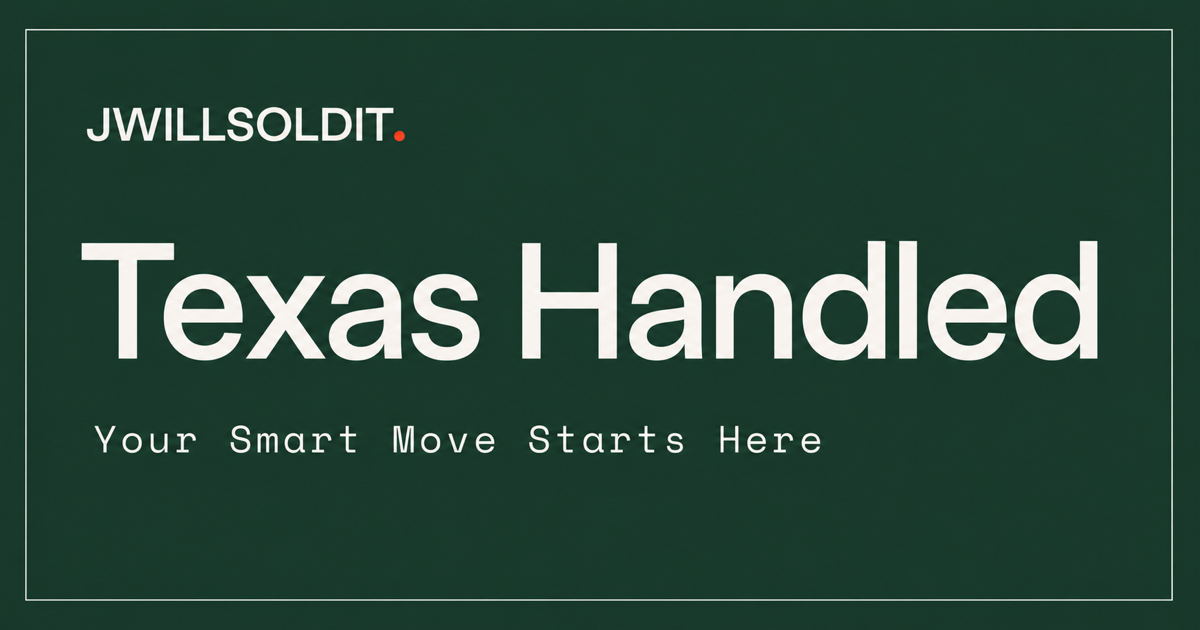
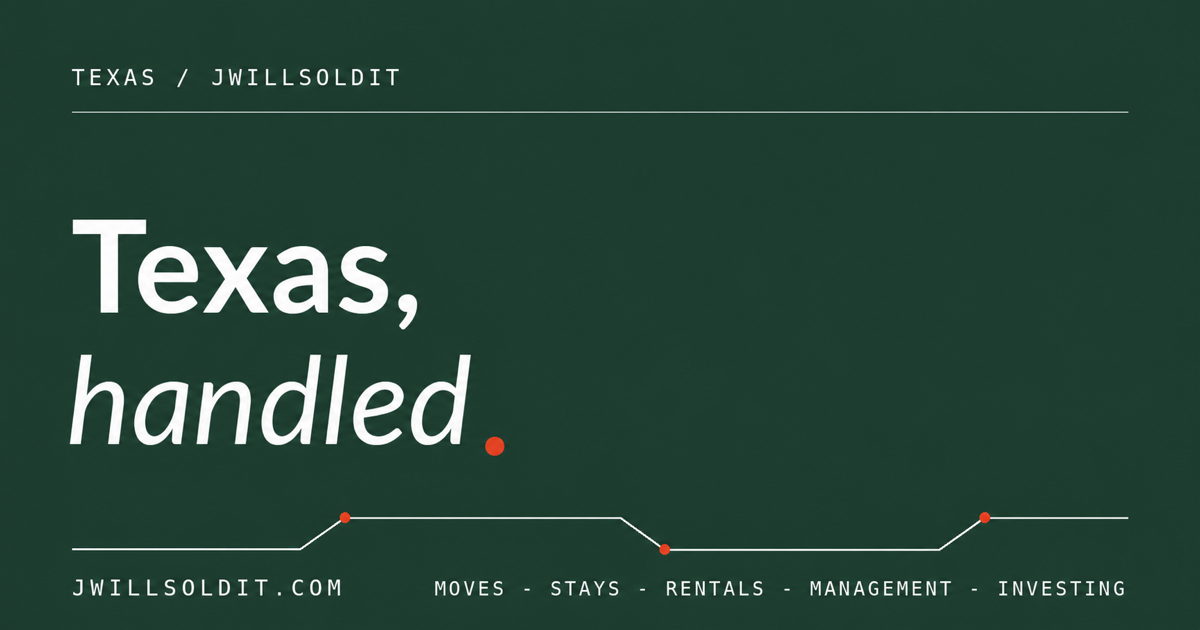
Match established share card style

diff --git a/index.html b/index.html
@@ -25,7 +25,7 @@
     <meta property="og:image:secure_url" content="https://www.jwillsoldit.com/assets/jwillsoldit-texas-handled-v2.png" />
     <meta property="og:image:width" content="1200" />
     <meta property="og:image:height" content="630" />
-    <meta property="og:image:alt" content="JWILLSOLDIT. Texas Handled. Your Smart Move Starts Here." />
+    <meta property="og:image:alt" content="JWILLSOLDIT. Texas, handled. Moves, stays, rentals, management, and investing." />
 
     <!-- Twitter -->
     <meta name="twitter:card" content="summary_large_image" />
@@ -35,7 +35,7 @@
       content="Moves, furnished stays, rentals, property management, and owner services across Texas — all organized in one place."
     />
     <meta name="twitter:image" content="https://www.jwillsoldit.com/assets/jwillsoldit-texas-handled-v2.png" />
-    <meta name="twitter:image:alt" content="JWILLSOLDIT. Texas Handled. Your Smart Move Starts Here." />
+    <meta name="twitter:image:alt" content="JWILLSOLDIT. Texas, handled. Moves, stays, rentals, management, and investing." />
 
     <!--
       Structured data (JSON-LD). Entity graph for JWILLSOLDIT + Joey Williams.
